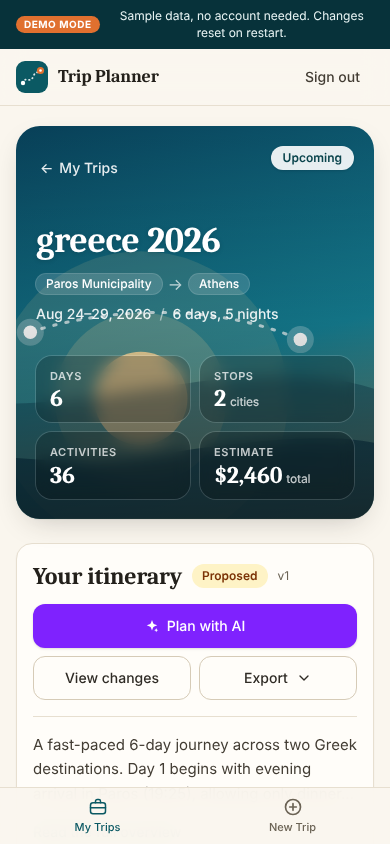
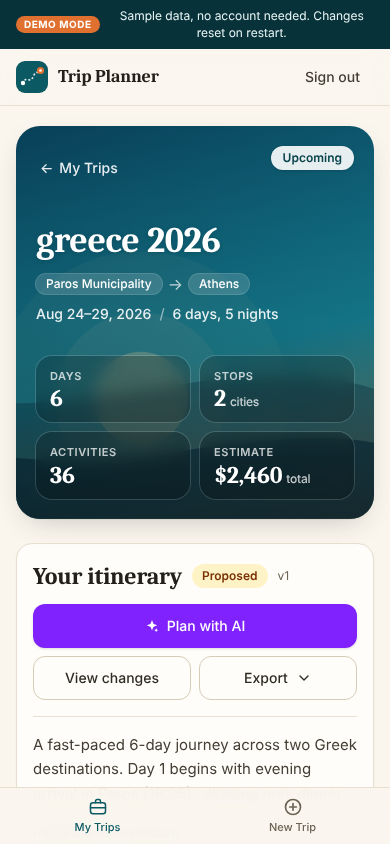
Design brief, before/after screenshots, final polish (opaque day strip, softer cover sun on phones)
Claude-Session: https://claude.ai/code/session_01PC23SS3zAkNJ7ZTH6iAGgp

Changed region(s): [[0.1538, 0.3697, 0.5538, 0.5545], [0.7385, 0.3697, 0.8, 0.4313], [0.0308, 0.3697, 0.1231, 0.4313]]

diff --git a/components/TripCover.tsx b/components/TripCover.tsx
@@ -92,9 +92,11 @@ export function TripCover({
         className="absolute inset-0 h-full w-full"
       >
         {/* sun + glow */}
-        <circle cx="610" cy="222" r="120" fill={p.sun} opacity="0.12" />
-        <circle cx="610" cy="222" r="70" fill={p.sun} opacity="0.2" />
-        <circle cx="610" cy="222" r="38" fill={p.sun} opacity="0.95" />
+        <g className="max-sm:opacity-35">
+          <circle cx="610" cy="222" r="120" fill={p.sun} opacity="0.12" />
+          <circle cx="610" cy="222" r="70" fill={p.sun} opacity="0.2" />
+          <circle cx="610" cy="222" r="38" fill={p.sun} opacity="0.95" />
+        </g>
         {/* far + near hills / sea swells */}
         <path
           d="M0 250 C90 210 170 232 260 214 C360 194 430 236 540 224 C650 212 720 190 800 214 L800 320 L0 320 Z"

diff --git a/components/itinerary/ItineraryView.tsx b/components/itinerary/ItineraryView.tsx
@@ -3193,7 +3193,7 @@ export function ItineraryView({
               {/* Sticky day-jump strip */}
               <nav
                 aria-label="Jump to day"
-                className="sticky top-14 z-20 -mx-4 border-b border-line bg-paper/90 px-4 backdrop-blur-md sm:mx-0 sm:rounded-2xl sm:border sm:px-2"
+                className="sticky top-14 z-20 -mx-4 border-b border-line bg-paper/95 px-4 backdrop-blur-md sm:mx-0 sm:rounded-2xl sm:border sm:px-2"
               >
                 <div
                   ref={stripRef}

diff --git a/app/page.tsx b/app/page.tsx
@@ -137,7 +137,7 @@ const FEATURES: { title: string; body: string; icon: React.ReactNode }[] = [
 
 function Landing({ demo }: { demo: boolean }) {
   return (
-    <div className="flex min-h-svh flex-col bg-paper">
+    <div className="flex min-h-svh flex-col overflow-x-clip bg-paper">
       {demo && (
         <div className="bg-brand-900 px-4 py-2 text-center text-xs text-brand-50">
           <span className="mr-2 rounded-full bg-sun-500 px-2 py-0.5 text-[10px] font-bold uppercase tracking-wider text-white">

diff --git a/app/globals.css b/app/globals.css
@@ -60,7 +60,7 @@
   --color-zinc-100: #f3eee4;
   --color-zinc-200: #e7e0d2;
   --color-zinc-300: #d6cdbb;
-  --color-zinc-400: #857c6d;
+  --color-zinc-400: #746b5d;
   --color-zinc-500: #6b6355;
   --color-zinc-600: #554e43;
   --color-zinc-700: #433d34;

diff --git a/docs/design/ux-brief.md b/docs/design/ux-brief.md
@@ -1,0 +1,127 @@
+# Trip Planner: UX research brief and design direction
+
+Scope: presentation only (components, page layouts, CSS). No data flow, routes or API changes.
+Screenshots: `docs/design/before/` (original) and `docs/design/after/` (redesign), 1280px and 390px.
+
+## How to read this brief
+
+Each pattern is tagged **[found]** (stated in a source I actually fetched) or **[judgement]** (my design
+reasoning, informed by those sources but not directly claimed by them). I could not view live products as
+images, so descriptions come from articles, store listings and design write-ups, several of which are
+secondhand or inferred from screenshot alt text. I also searched for Airbnb, Hopper, Roadtrippers,
+Tripadvisor and Notion/Linear-style write-ups, but the results were too thin to cite. Anything I say about
+those comes from general design knowledge and is marked as judgement.
+
+Sources used:
+- iMore, "Wanderlog iPhone travel app" (itinerary tab, per-day sections, Auto-fill day, Optimize route).
+- Stippl, "Stippl vs Wanderlog (2026)" (competitor's view, treat as secondhand).
+- Unite.ai, "Best AI tools for travel planning" (Mindtrip, Layla, Wanderlog interaction models).
+- ScreensDesign, "Polarsteps" screen catalogue (alt-text summaries, so inferred) and
+  "Travel itinerary app design examples" (Plotline, Rhyme, Tripadvisor, TripIt, Layla).
+- Skift, "TripIt streamlines itinerary design" (More info / Less info toggle).
+- Search Engine Land, "Google Maps gets brighter UI, new category icons and more color-coding".
+- SaaSFactor, "Travel mobile app design ideas" (hierarchy, empty states, AI progress, accessibility).
+
+## Patterns worth borrowing
+
+1. **Trip cover header with identity.** [found] Polarsteps pairs a full-bleed cover with trip name, dates and
+   a share action on trip cards and the trip summary. Applied: a destination-themed hero (CSS gradient +
+   inline SVG sun, hills and dotted route; no photos so the demo works offline), reused as a small cover on
+   dashboard cards.
+2. **At-a-glance stats.** [found] Polarsteps shows a grid of trip metrics; TripIt added one place to monitor
+   cost. Applied: days / cities / activities / estimate strip in the hero, plus a "Trip mix" and
+   "Budget by day" panel in a sticky side column on desktop. All derived from the saved itinerary, nothing
+   invented.
+3. **One container per day.** [found] Wanderlog gives each day its own section you fill and reorder. Applied:
+   each day is a card with a day badge, weekday and date, city, stop count and cost.
+4. **A stable hierarchy inside each stop.** [found] ScreensDesign: "date, local time, place, duration,
+   reservation state and the next move should form a stable hierarchy", and "design the collapsed card for
+   decision-making before adding detail". Applied: time rail on the left, then name + type chip, place,
+   description, then one meta line (duration, cost, lock state) with actions.
+5. **Category colour plus icon.** [found] Google Maps colour-codes categories (food orange/gold, outdoors
+   green, shopping blue, entertainment turquoise) and added icons. Applied: eight activity types, each with
+   a hue, an icon and a text label, used on the rail dot, chip, mix bar and the dashboard style chips.
+   Colour is never the only signal. [judgement: exact hues]
+6. **Progressive disclosure.** [found] TripIt hid layover and booking detail behind More info; SaaSFactor
+   recommends read-more and collapsed detail. Applied: overview clamps to three lines, destination guides
+   start collapsed with a coverage bar in the header, secondary actions (reorder, remove) live behind a
+   "more" button on each stop.
+7. **Chat beside the plan, edits by conversation.** [found] Mindtrip pairs chat with a visual workspace;
+   Layla edits the plan through chat. Applied: "Plan with AI" is a side panel on desktop (the plan stays
+   visible while you talk) and scrolls into view on phones. Starter prompt chips are [judgement]: a common
+   chat pattern that lowers the blank-box problem. They only fill the input.
+8. **Make provenance and state visible.** [found] ScreensDesign: imported, manual and AI-suggested items
+   "should not look identical"; TripIt-style history should show who changed what. Applied: violet is
+   reserved for anything AI (Revise, Plan with AI), teal for the user's own structure (lock, selected),
+   locked stops get a tinted card, guide picks carry "In your plan / Will be added / Will be removed / Locked"
+   tags, and "View changes" sits in the main toolbar.
+9. **Empty states: illustration, one sentence, one action.** [found] Polarsteps empty states use an
+   illustration, a short message and a single CTA; SaaSFactor says every empty or error state needs a next
+   action. Applied: dashboard empty state, "no days" state, archived state.
+10. **Honest AI progress.** [found] SaaSFactor: show that useful work is happening rather than a bare
+    spinner. Applied: an animated route plus skeleton day cards, with the existing "30 to 60 seconds" copy.
+    The animation is indeterminate on purpose; we do not know real progress, so we do not fake steps.
+11. **Phone navigation and touch targets.** [found] Bottom navigation with five tabs or fewer, 4.5:1 contrast
+    (SaaSFactor). Applied: two-tab bottom bar below 640px (the old header hid both links on phones), 44px
+    minimum targets, 16px inputs to avoid iOS zoom.
+12. **Map next to list.** [found] ScreensDesign and Wanderlog: the list explains order, the map exposes
+    distance and clustering. **Not applied**: the UI has no map tiles or coordinates it can show offline.
+    I added "free time between stops" cues on the rail as a lightweight stand-in. [judgement]
+
+## Problems in the original UI (see `before/`)
+
+- **Phone header breaks.** At 390px the itinerary toolbar wraps "Plan with AI" into three lines and the
+  "Proposed" badge is clipped off the right edge (`before/trip-top-mobile.png`). Nav links are hidden below
+  640px with no replacement.
+- **Flat hierarchy.** Everything is the same white card in a 640px column. Nothing says "this is your trip"
+  (no cover, route or at-a-glance numbers); the itinerary summary is one dense paragraph.
+- **Dense, small controls.** Each stop carries up to seven 28px icon buttons plus a type badge, so the
+  eye has nowhere to land; touch targets are well under 44px.
+- **No timeline logic.** Times are tiny indigo labels; no sense of rhythm, gaps or what is anchored.
+- **Destination guide.** A plain checklist with two overlapping signals (checkbox and a 16px dot) and long
+  lines of grey text; the whole thing is open by default, pushing the day-by-day plan below the fold.
+- **Plan with AI** is squeezed into the header card; the placeholder text is clipped; Apply has no counterpart.
+- **Generic look.** Default zinc and indigo, and the body font resolves to Arial (a leftover rule in
+  `globals.css`). The dashboard shows one lonely card with a raw status word ("planned").
+
+## Design direction
+
+**Concept: a warm travel journal, not a SaaS dashboard.** [judgement] Paper-toned surfaces, a serif for
+display and card titles, a deep Aegean teal as the one brand colour, a violet that means "AI", and a
+distinct hue per activity type.
+
+**Palette** (tokens in `app/globals.css`)
+- Surfaces: paper `#faf6ee`, card `#fffdf9`, hairlines `#e7dfd0`, ink `#23201b`.
+- Brand teal 600/700 `#0f6f7a` / `#0b5963`; sun accent `#e0702f` (logo, demo tag, hero sun only).
+- AI: Tailwind violet. Types: food orange, culture plum, outdoor green, shopping rose, transport blue,
+  stay indigo, entertainment amber, other stone.
+- The legacy `zinc-*` and `indigo-*` scales are re-pointed at warm neutrals and teal, so booking, consulting
+  and auth screens inherit the identity without being rewritten.
+- Measured contrast: ink on paper 15.1:1; body grey on paper 7.6:1; muted grey on paper 5.5:1; white on
+  teal button 5.9:1; all eight type chips 5.9 to 7.4:1; white on violet 5.7:1. Hero text sits on a dark
+  scrim (white on the mid gradient alone is 4.7:1).
+
+**Type** (system stacks only, no downloads)
+- Display/titles: `Charter, Bitstream Charter, Sitka Text, Cambria, Georgia, serif` at 36 to 60px (trip
+  title), 24px section heads, 18 to 20px card titles.
+- UI/body: `Inter, system-ui, ...` at 15px body, 12 to 13px meta, 11px uppercase micro-labels.
+- Tabular numerals for times and money.
+
+**Spacing and shape.** 4px base. Cards 16 to 20px padding with 20 to 24px between them. Radii: 12px
+controls, 16px cards, 24px hero. Wide trip page: 1152px container, content column plus a 336px sticky
+side column from 1024px; single column below.
+
+**Motion.** Purposeful and small: 420ms rise-in for dashboard cards, 200ms hover lift, the generating
+route animation, smooth scroll for the day strip. All of it is switched off under
+`prefers-reduced-motion`.
+
+**Accessibility.** Visible focus rings (teal; violet on AI controls), 44px targets under 640px, real
+checkboxes behind the guide cards, `aria-current` on nav and the active day chip, one `h1` per page,
+`aria-live` on the chat transcript.
+
+## Deliberately not done
+
+- Real photography and a map view (offline requirement, and no map data in the UI).
+- Dark mode. A half-done dark theme is worse than none, so the page declares a light colour scheme.
+- Invented copy or numbers: stats, "free time" gaps and budget bars are computed from the itinerary;
+  the landing page preview is labelled as a sample.
